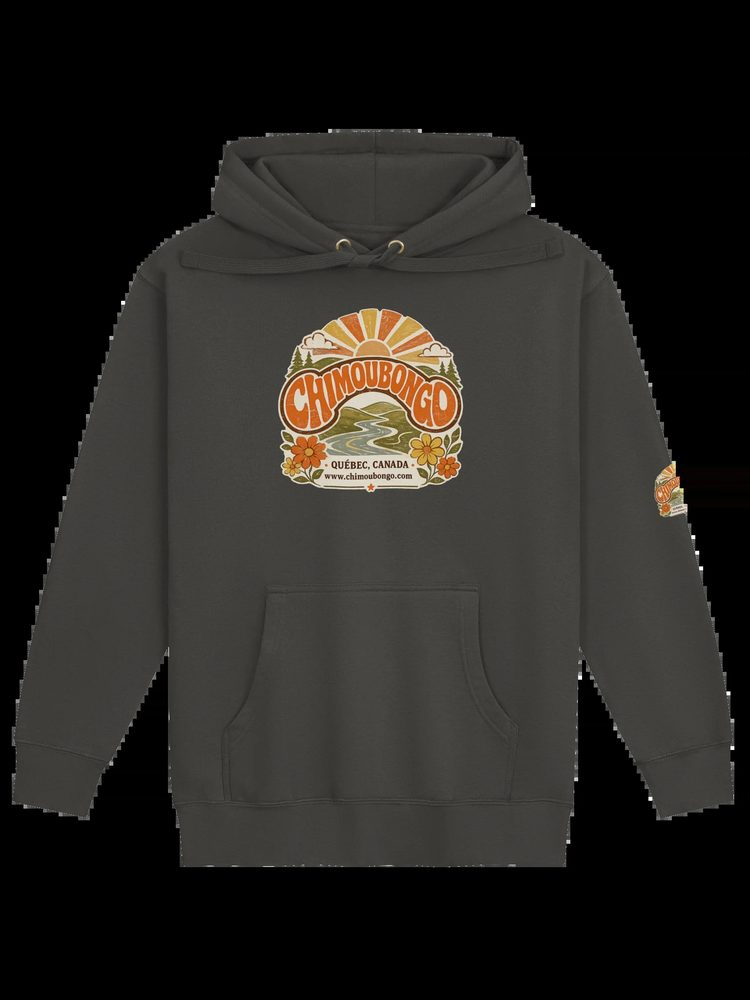
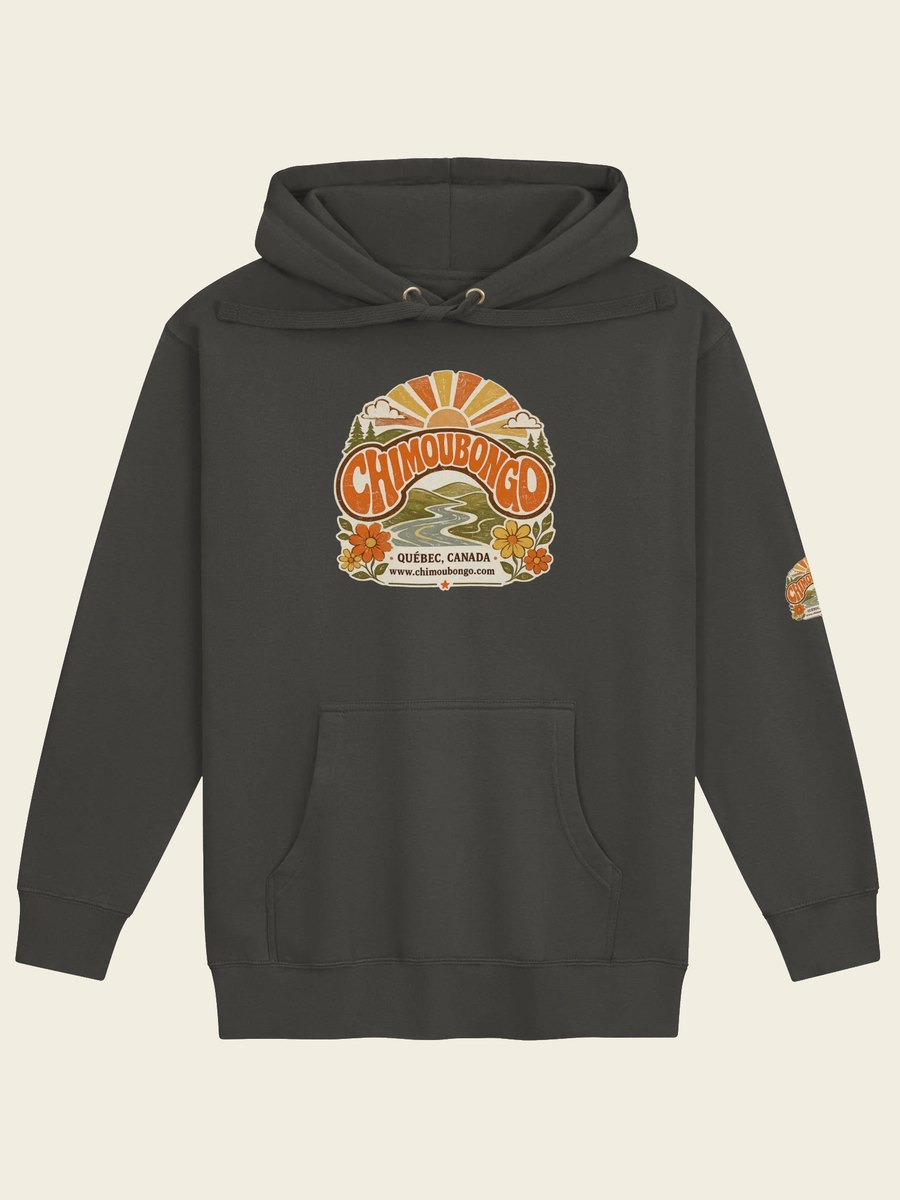
Fix baked shop product presentation and rebuilds

diff --git a/index.html b/index.html
@@ -482,7 +482,7 @@
 
   <div class="goods rv">
     <div class="good">
-      <figure><img src="assets/shop/shirtmoubongo-2.jpg" alt="Shirtmoubongo" loading="lazy" width="1000" height="1000"></figure>
+      <figure><img src="assets/shop/shirtmoubongo-2.jpg" alt="Shirtmoubongo" loading="lazy" width="900" height="1200"></figure>
       <div class="goodbody">
         <h4>Shirtmoubongo</h4>
         <p class="price"><span class="pfrom">à partir de</span> $25.94</p>
@@ -512,7 +512,7 @@
       </div>
     </div>
     <div class="good">
-      <figure><img src="assets/shop/hoodiemoubongo.jpg" alt="Hoodiemoubongo" loading="lazy" width="1000" height="1000"></figure>
+      <figure><img src="assets/shop/hoodiemoubongo.jpg" alt="Hoodiemoubongo" loading="lazy" width="900" height="1200"></figure>
       <div class="goodbody">
         <h4>Hoodiemoubongo</h4>
         <p class="price"><span class="pfrom">à partir de</span> $43.35</p>
@@ -534,7 +534,7 @@
       </div>
     </div>
     <div class="good">
-      <figure><img src="assets/shop/cafemoubongo.jpg" alt="Cafemoubongo" loading="lazy" width="1000" height="1000"></figure>
+      <figure><img src="assets/shop/cafemoubongo.jpg" alt="Cafemoubongo" loading="lazy" width="900" height="1200"></figure>
       <div class="goodbody">
         <h4>Cafemoubongo</h4>
         <p class="price"><span class="pfrom">à partir de</span> $11.95</p>
@@ -552,7 +552,7 @@
       </div>
     </div>
     <div class="good">
-      <figure><img src="assets/shop/truckermoubongo.jpg" alt="Truckermoubongo" loading="lazy" width="1000" height="1000"></figure>
+      <figure><img src="assets/shop/truckermoubongo.jpg" alt="Truckermoubongo" loading="lazy" width="900" height="1200"></figure>
       <div class="goodbody">
         <h4>Truckermoubongo</h4>
         <p class="price">$15.95</p>
@@ -569,7 +569,7 @@
       </div>
     </div>
     <div class="good">
-      <figure><img src="assets/shop/stickermoubongo.jpg" alt="Stickermoubongo" loading="lazy" width="1000" height="1000"></figure>
+      <figure><img src="assets/shop/stickermoubongo.jpg" alt="Stickermoubongo" loading="lazy" width="900" height="1200"></figure>
       <div class="goodbody">
         <h4>Stickermoubongo</h4>
         <p class="price"><span class="pfrom">à partir de</span> $5.29</p>

diff --git a/en.html b/en.html
@@ -482,7 +482,7 @@
 
   <div class="goods rv">
     <div class="good">
-      <figure><img src="assets/shop/shirtmoubongo-2.jpg" alt="Shirtmoubongo" loading="lazy" width="1000" height="1000"></figure>
+      <figure><img src="assets/shop/shirtmoubongo-2.jpg" alt="Shirtmoubongo" loading="lazy" width="900" height="1200"></figure>
       <div class="goodbody">
         <h4>Shirtmoubongo</h4>
         <p class="price"><span class="pfrom">from</span> $25.94</p>
@@ -512,7 +512,7 @@
       </div>
     </div>
     <div class="good">
-      <figure><img src="assets/shop/hoodiemoubongo.jpg" alt="Hoodiemoubongo" loading="lazy" width="1000" height="1000"></figure>
+      <figure><img src="assets/shop/hoodiemoubongo.jpg" alt="Hoodiemoubongo" loading="lazy" width="900" height="1200"></figure>
       <div class="goodbody">
         <h4>Hoodiemoubongo</h4>
         <p class="price"><span class="pfrom">from</span> $43.35</p>
@@ -534,7 +534,7 @@
       </div>
     </div>
     <div class="good">
-      <figure><img src="assets/shop/cafemoubongo.jpg" alt="Cafemoubongo" loading="lazy" width="1000" height="1000"></figure>
+      <figure><img src="assets/shop/cafemoubongo.jpg" alt="Cafemoubongo" loading="lazy" width="900" height="1200"></figure>
       <div class="goodbody">
         <h4>Cafemoubongo</h4>
         <p class="price"><span class="pfrom">from</span> $11.95</p>
@@ -552,7 +552,7 @@
       </div>
     </div>
     <div class="good">
-      <figure><img src="assets/shop/truckermoubongo.jpg" alt="Truckermoubongo" loading="lazy" width="1000" height="1000"></figure>
+      <figure><img src="assets/shop/truckermoubongo.jpg" alt="Truckermoubongo" loading="lazy" width="900" height="1200"></figure>
       <div class="goodbody">
         <h4>Truckermoubongo</h4>
         <p class="price">$15.95</p>
@@ -569,7 +569,7 @@
       </div>
     </div>
     <div class="good">
-      <figure><img src="assets/shop/stickermoubongo.jpg" alt="Stickermoubongo" loading="lazy" width="1000" height="1000"></figure>
+      <figure><img src="assets/shop/stickermoubongo.jpg" alt="Stickermoubongo" loading="lazy" width="900" height="1200"></figure>
       <div class="goodbody">
         <h4>Stickermoubongo</h4>
         <p class="price"><span class="pfrom">from</span> $5.29</p>

diff --git a/assets/site.css b/assets/site.css
@@ -637,11 +637,18 @@ footer .fnote{max-width:340px;margin:0}
   overflow:hidden;
 }
 .good figure{margin:0;overflow:hidden;background:var(--paper2)}
+/* Product shots are transparent 3:4 portrait art composited onto --paper2 by
+   tools/bake_shop.py. Two bugs shipped in the first pass and both showed up
+   as "poorly cut out": the alpha was flattened onto BLACK, and a forced 1/1
+   aspect-ratio with object-fit:cover cropped 25% away, cutting hems and
+   brims. Match the real 3:4 ratio and use `contain` so nothing is ever
+   sliced; the padded background is the same paper as the card, so the photo
+   has no visible edge. */
 .good figure img{
-  display:block;width:100%;height:auto;aspect-ratio:1/1;object-fit:cover;
+  display:block;width:100%;height:auto;aspect-ratio:3/4;object-fit:contain;
   transition:transform .7s cubic-bezier(.2,.7,.2,1);
 }
-.good:hover figure img{transform:scale(1.045)}
+.good:hover figure img{transform:scale(1.03)}
 
 /* Body is a column with the form pinned to the bottom, so cards with
    longer names still line their buy controls up across the row.      */

diff --git a/tools/build_shop_section.py b/tools/build_shop_section.py
@@ -1,4 +1,4 @@
-"""Insert the baked #shop section into both pages, plus a nav link.
+"""Insert or rebuild the baked #shop section in both pages, plus nav links.
 
 Reads assets/shop.json (written by tools/bake_shop.py) and emits static
 markup: no fetch, no cart JS, no token in the page. Every buy control is a
@@ -83,7 +83,7 @@ def build(copy):
                 opts.append(f'<option value="{o["id"]}:1">{label} — {money(o["price"], p["currency"])}</option>')
 
         cards.append(f'''    <div class="good">
-      <figure><img src="{v["image"]}" alt="{p["name"]}" loading="lazy" width="1000" height="1000"></figure>
+      <figure><img src="{v["image"]}" alt="{p["name"]}" loading="lazy" width="900" height="1200"></figure>
       <div class="goodbody">
         <h4>{p["name"]}</h4>
         <p class="price">{prefix}{price}</p>
@@ -120,39 +120,45 @@ def build(copy):
 '''
 
 
-for name, copy in COPY.items():
-    path = os.path.join(ROOT, name)
-    s = open(path, encoding="utf-8").read()
+def replace_shop_section(s, copy):
+    """Insert #shop once, or replace it from the current baked catalog."""
+    anchor = '<section id="visit">'
+    assert anchor in s, "#visit anchor not found"
+    shop = build(copy)
 
     if '<section id="shop">' in s:
-        print(f"SKIP {name} (shop already present)")
-        continue
+        start = s.index('<section id="shop">')
+        end = s.index(anchor, start)
+        s = s[:start] + shop + s[end:]
+    else:
+        s = s.replace(anchor, shop + anchor, 1)
 
-    anchor = '<section id="visit">'
-    assert anchor in s, f"{name}: #visit anchor not found"
+        # Nav link, placed before Visit so shop sits next to it.
+        nav_anchor = '  <a class="nl" href="#visit">'
+        assert nav_anchor in s, "nav anchor not found"
+        s = s.replace(nav_anchor, f'  <a class="nl" href="#shop">{copy["nav"]}</a>\n{nav_anchor}', 1)
 
-    before_divs, before_secs = s.count("<div"), s.count("<section")
-    s = s.replace(anchor, build(copy) + anchor, 1)
+        # Footer link under the Visit column.
+        foot_anchor = '<li><a href="#bureau">'
+        assert foot_anchor in s, "footer anchor not found"
+        i = s.index(foot_anchor)
+        j = s.index("</li>", i) + len("</li>")
+        s = s[:j] + f'\n          <li><a href="#shop">{copy["foot"]}</a></li>' + s[j:]
 
-    # Nav link, placed before the Visiter link so shop sits next to it.
-    nav_anchor = '  <a class="nl" href="#visit">'
-    assert nav_anchor in s, f"{name}: nav anchor not found"
-    s = s.replace(nav_anchor, f'  <a class="nl" href="#shop">{copy["nav"]}</a>\n{nav_anchor}', 1)
+    assert s.count('<section id="shop">') == 1, "shop section count"
+    assert s.count("<section") == s.count("</section>"), "section balance"
+    assert s.count("<div") == s.count("</div>"), "div balance"
+    assert s.count("<form") == s.count("</form>") == 5, "form count"
+    assert s.count("<select") == s.count("</select>") == 5, "select count"
+    assert "ptkn_" not in s, "storefront token must never reach the page"
+    return s
 
-    # Footer link under the Visiter column.
-    foot_anchor = '<li><a href="#bureau">'
-    assert foot_anchor in s, f"{name}: footer anchor not found"
-    i = s.index(foot_anchor)
-    j = s.index("</li>", i) + len("</li>")
-    s = s[:j] + f'\n          <li><a href="#shop">{copy["foot"]}</a></li>' + s[j:]
 
-    assert s.count('<section id="shop">') == 1, f"{name}: shop section count"
-    assert s.count("<section") == s.count("</section>"), f"{name}: section balance"
-    assert s.count("<div") == s.count("</div>"), f"{name}: div balance"
-    assert s.count("<form") == s.count("</form>") == 5, f"{name}: form count"
-    assert s.count("<select") == s.count("</select>") == 5, f"{name}: select count"
-    assert "ptkn_" not in s, f"{name}: storefront token must never reach the page"
-    assert s.count("<section") == before_secs + 1, f"{name}: unexpected section delta"
-
-    open(path, "w", encoding="utf-8").write(s)
-    print(f"OK {name}: +1 section, +{s.count('<div') - before_divs} divs")
+if __name__ == "__main__":
+    for name, copy in COPY.items():
+        path = os.path.join(ROOT, name)
+        before = open(path, encoding="utf-8").read()
+        after = replace_shop_section(before, copy)
+        open(path, "w", encoding="utf-8").write(after)
+        action = "rebuilt" if '<section id="shop">' in before else "inserted"
+        print(f"OK {name}: {action} #shop")

diff --git a/tools/bake_shop.py b/tools/bake_shop.py
@@ -28,12 +28,13 @@ the repo or in a chat message.
 Run manually: FOURTHWALL_TOKEN=ptkn_... python3 tools/bake_shop.py
           or: python3 tools/bake_shop.py   (reads tools/.fourthwall-token)
 """
+import io
 import json
 import os
 import re
 import urllib.request
 
-from PIL import Image
+from PIL import Image, ImageOps
 
 HERE = os.path.dirname(os.path.abspath(__file__))
 ROOT = os.path.dirname(HERE)
@@ -120,18 +121,33 @@ def main():
         src = images[0]["url"]
         fname = f"{p['slug']}.jpg"
         path = os.path.join(SHOP_IMG, fname)
+        # Fourthwall product shots are TRANSPARENT (RGBA webp) portrait images,
+        # typically 1536x2048. Two things must be handled or the cards look
+        # cheap, and both were got wrong on the first pass:
+        #
+        #   1. A bare .convert("RGB") composites transparency onto BLACK, which
+        #      put every product on a black rectangle inside a cream card. The
+        #      alpha must be composited onto the site's paper colour instead.
+        #   2. The images are 3:4 portrait. Forcing them into a square with
+        #      object-fit:cover crops 25% away and cuts off hems and brims.
+        #      They are kept portrait and the CSS matches that ratio.
+        #
+        # Saved as PNG-free flat JPEG on --paper2 so the card reads as one
+        # continuous surface with no visible photo edge.
+        PAPER2 = (242, 237, 225)  # --paper2 from assets/site.css
         if not os.path.exists(path):
             req = urllib.request.Request(src, headers={"User-Agent": "chimoubongo.com static shop bake"})
             with urllib.request.urlopen(req, timeout=60) as r:
                 raw = r.read()
-            tmp = path + ".tmp"
-            with open(tmp, "wb") as f:
-                f.write(raw)
-            img = Image.open(tmp).convert("RGB")
-            img.thumbnail((1000, 1000), Image.LANCZOS)
-            img.save(path, "JPEG", quality=82, progressive=True, optimize=True)
-            os.remove(tmp)
-            print(f"  baked {fname} ({os.path.getsize(path)} bytes)")
+            img = Image.open(io.BytesIO(raw))
+            if img.mode in ("RGBA", "LA", "P"):
+                img = img.convert("RGBA")
+                bg = Image.new("RGBA", img.size, PAPER2 + (255,))
+                img = Image.alpha_composite(bg, img)
+            img = img.convert("RGB")
+            img = ImageOps.contain(img, (900, 1200), Image.LANCZOS)
+            img.save(path, "JPEG", quality=86, progressive=True, optimize=True)
+            print(f"  baked {fname} {img.size[0]}x{img.size[1]} ({os.path.getsize(path)} bytes)")
 
         variant = {
             "colour": colour,

diff --git a/tools/test_shop_assets.py b/tools/test_shop_assets.py
@@ -1,0 +1,45 @@
+"""Regression checks for the baked Fourthwall product art and markup.
+
+Run: python3 tools/test_shop_assets.py
+"""
+import json
+from pathlib import Path
+from typing import cast
+from PIL import Image
+
+ROOT = Path(__file__).resolve().parents[1]
+PAPER2 = (242, 237, 225)
+EXPECTED = {
+    "cafemoubongo.jpg",
+    "hoodiemoubongo.jpg",
+    "shirtmoubongo-2.jpg",
+    "shirtmoubongo.jpg",
+    "stickermoubongo.jpg",
+    "truckermoubongo.jpg",
+}
+
+shop = json.loads((ROOT / "assets" / "shop.json").read_text(encoding="utf-8"))
+assert len(shop["products"]) == 5
+
+for name in EXPECTED:
+    path = ROOT / "assets" / "shop" / name
+    assert path.is_file(), f"missing baked product art: {name}"
+    with Image.open(path) as image:
+        assert image.format == "JPEG", f"{name}: expected JPEG, got {image.format}"
+        assert image.size == (900, 1200), f"{name}: expected 900x1200, got {image.size}"
+        corner = cast(tuple[int, int, int], image.convert("RGB").getpixel((0, 0)))
+        assert max(abs(a - b) for a, b in zip(corner, PAPER2)) <= 4, (
+            f"{name}: transparent source did not flatten onto --paper2: {corner}"
+        )
+
+for page in ("index.html", "en.html"):
+    text = (ROOT / page).read_text(encoding="utf-8")
+    start = text.index('<section id="shop">')
+    end = text.index('<section id="visit">', start)
+    section = text[start:end]
+    assert section.count('<div class="good">') == 5, f"{page}: expected five cards"
+    assert section.count('width="900" height="1200"') == 5, f"{page}: stale image dimensions"
+    assert "ptkn_" not in section, f"{page}: token leaked into markup"
+    assert section.count("<form") == section.count("</form>") == 5, f"{page}: checkout forms"
+
+print("OK shop product art is 3:4, paper-composited, and static")

diff --git a/tools/test_build_shop_section.py b/tools/test_build_shop_section.py
@@ -1,0 +1,28 @@
+"""Regression checks for rebuilding an already-present #shop section.
+
+Run: python3 tools/test_build_shop_section.py
+"""
+from build_shop_section import COPY, replace_shop_section
+
+source = '''<nav>
+  <a class="nl" href="#shop">Le hangar</a>
+  <a class="nl" href="#visit">Visiter</a>
+</nav>
+<section id="bureau"></section>
+<section id="shop"><p>OLD SHOP CONTENT</p></section>
+<section id="visit"></section>
+<footer><li><a href="#bureau">Attractions</a></li>
+          <li><a href="#shop">Le hangar</a></li></footer>
+'''
+
+updated = replace_shop_section(source, COPY["index.html"])
+
+assert "OLD SHOP CONTENT" not in updated
+assert updated.count('<section id="shop">') == 1
+assert updated.count('<section id="visit">') == 1
+assert updated.index('<section id="shop">') < updated.index('<section id="visit">')
+assert updated.count('href="#shop"') == 2, "existing nav and footer links must not duplicate"
+assert updated.count("<form") == updated.count("</form>") == 5
+assert 'width="900" height="1200"' in updated
+
+print("OK existing #shop section is rebuilt without duplicate navigation")
